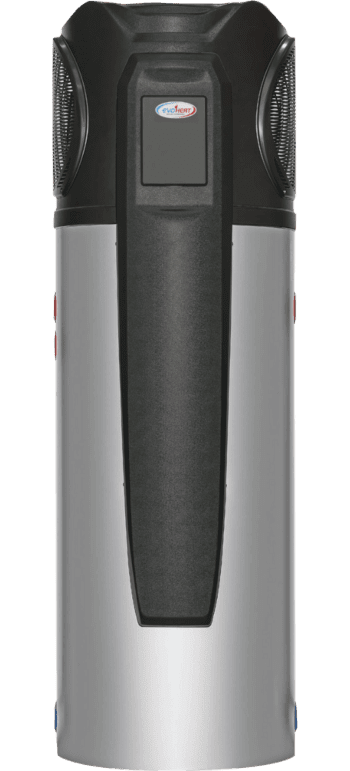
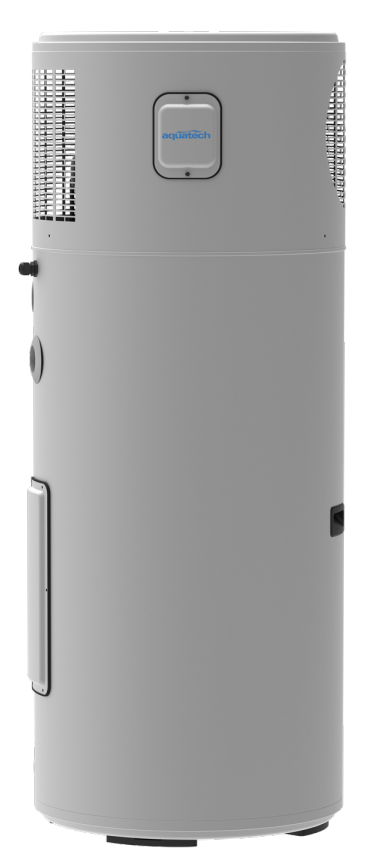
Replace Aquatech placeholder SVG with real branded product image

diff --git a/aquatech.html b/aquatech.html
@@ -106,7 +106,7 @@
           <a href="assets/brochures/aquatech-dynamic-x8-spec.pdf" class="pd-download" target="_blank" rel="noopener"><svg viewBox="0 0 24 24" aria-hidden="true"><path d="M21 15v4a2 2 0 0 1-2 2H5a2 2 0 0 1-2-2v-4M7 10l5 5 5-5M12 15V3"/></svg>Dynamic X8 Spec Sheet</a>
         </div>
       </div>
-      <div class="pdhero-img fade"><img src="images/product-aquatech.svg" alt="Aquatech"></div>
+      <div class="pdhero-img fade"><img src="images/product-aquatech.png" alt="Aquatech"></div>
     </div>
   </div>
 </section>

diff --git a/heat-pumps.html b/heat-pumps.html
@@ -177,7 +177,7 @@
         </div>
       </div>
       <div class="pcard fade">
-        <div class="pcard-img"><img src="images/product-aquatech.svg" alt="Aquatech"></div>
+        <div class="pcard-img"><img src="images/product-aquatech.png" alt="Aquatech"></div>
         <div class="pcard-body">
           <div class="tier">Reliable &mdash; &#36;&#36;&#36;</div><h3>Aquatech</h3>
           <p class="desc">Toshiba compressor, plug-in install, WiFi smart controller, runs efficiently down to -7&deg;C. Rapid X6 (225L) or Dynamic X8 (268L).</p>

diff --git a/index.html b/index.html
@@ -221,7 +221,7 @@
       </div>
 
       <div class="pcard fade">
-        <div class="pcard-img"><img src="images/product-aquatech.svg" alt="Aquatech Heat&nbsp;Pump"></div>
+        <div class="pcard-img"><img src="images/product-aquatech.png" alt="Aquatech Heat&nbsp;Pump"></div>
         <div class="pcard-body">
           <div class="tier">Reliable</div>
           <h3>Aquatech</h3>